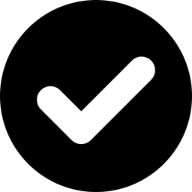
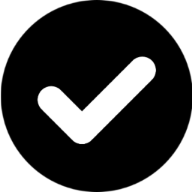
Updated meta images

diff --git a/client/public/index.html b/client/public/index.html
@@ -20,13 +20,13 @@
     <meta name="twitter:description" content="vidnote is a note-sharing app for YouTube videos.">
     <meta name="twitter:creator" content="@mosesfinlay">
     <!-- Twitter Summary card images must be at least 120x120px -->
-    <meta name="twitter:image" content="https://vidnote.herokuapp.com/tick.png">
+    <meta name="twitter:image" content="https://vidnote.herokuapp.com/check.png">
 
     <!-- Open Graph data -->
     <meta property="og:title" content="vidnote" />
     <meta property="og:type" content="article" />
     <meta property="og:url" content="https://vidnote.herokuapp.com/" />
-    <meta property="og:image" content="https://vidnote.herokuapp.com/tick.png" />
+    <meta property="og:image" content="https://vidnote.herokuapp.com/check.png" />
     <meta property="og:description" content="vidnote is a note-sharing app for YouTube videos." /> 
     <meta property="og:site_name" content="vidnote" />
 
